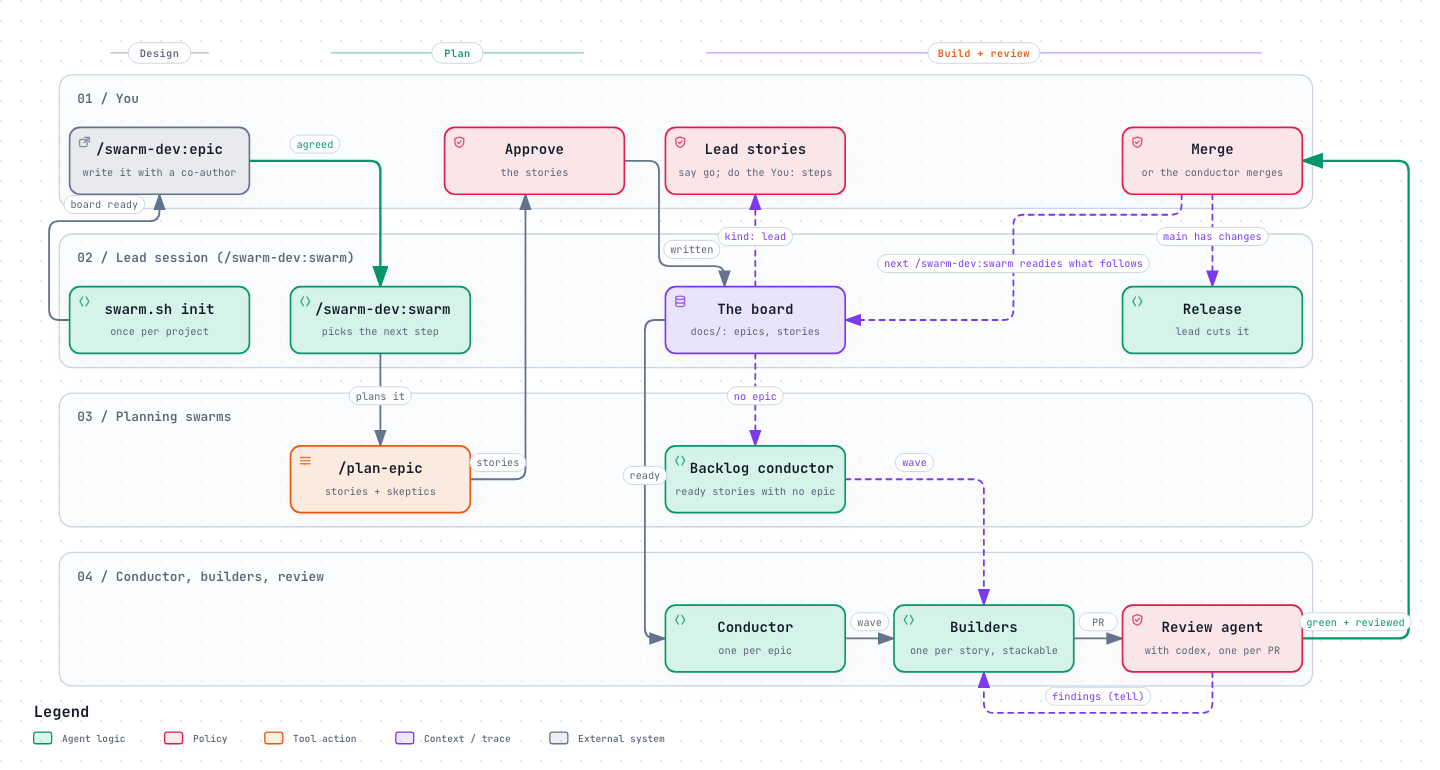
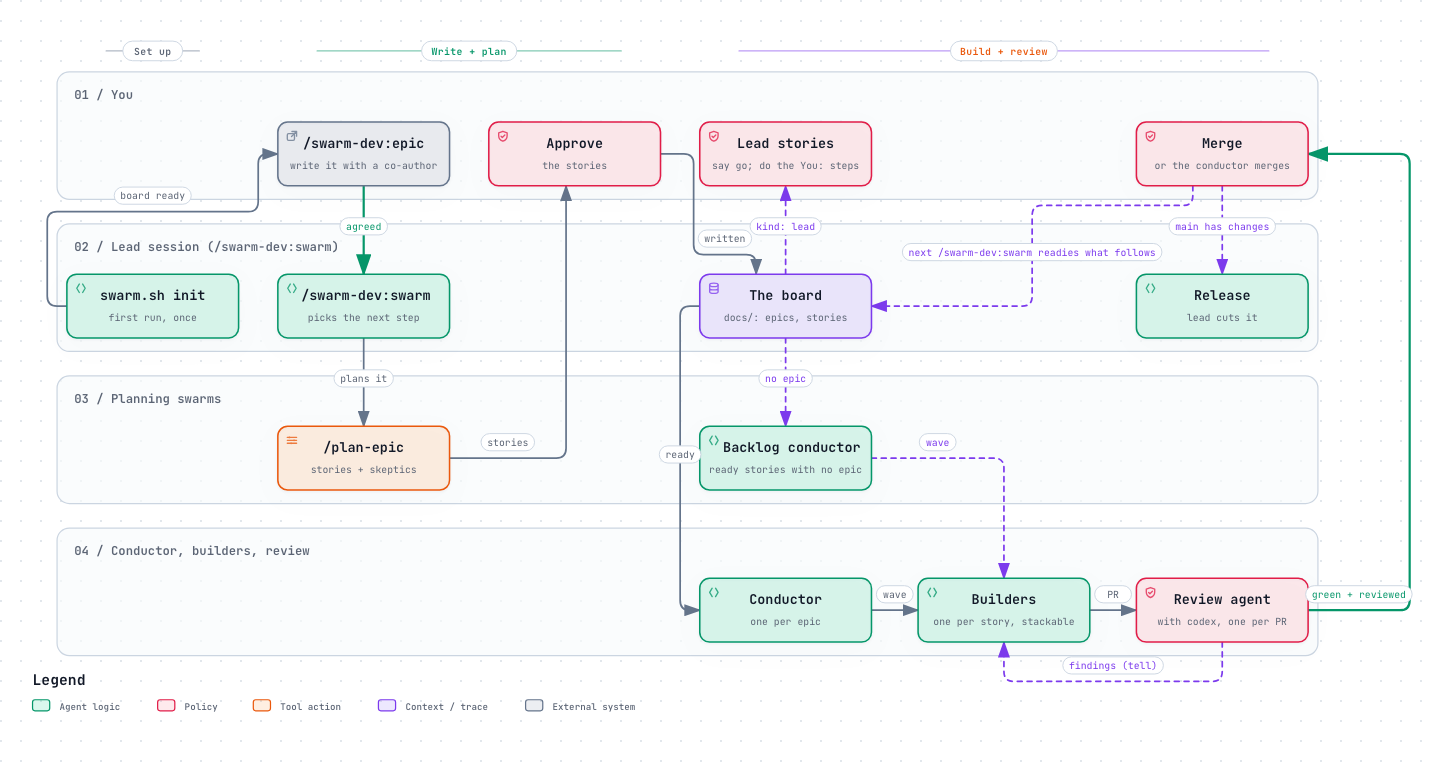
README: Requirements as a table, Obsidian optional, swarm.sh init first in the diagram (#352)
Claude-Session: https://claude.ai/code/session_01DPGGTEfx4m7EudRUvhD1P5

diff --git a/README.md b/README.md
@@ -18,7 +18,7 @@ claude plugin marketplace add redscaresu/swarm-dev && claude plugin install swar
 
 Then, in your project inside [herdr](https://herdr.dev), start `claude` and run:
 
-1. `/swarm-dev:swarm` sets up the board the first time (`swarm.sh init`).
+1. `/swarm-dev:swarm` runs `swarm.sh init` the first time, which sets up the board.
 2. `/swarm-dev:epic Add rate limiting to the API` writes the first piece of work with you.
 3. `/swarm-dev:swarm` again plans it, builds it, and stops each time it needs you.
 
@@ -28,7 +28,7 @@ Then, in your project inside [herdr](https://herdr.dev), start `claude` and run:
 
 <picture>
   <source media="(prefers-color-scheme: dark)" srcset="docs/assets/swarm-flow-dark.png">
-  <img alt="How the swarm builds an epic: /swarm-dev:epic, /swarm-dev:swarm, /plan-epic, your approval, the board, conductor, builders, review agent, merge" src="docs/assets/swarm-flow-light.png">
+  <img alt="How the swarm builds an epic: swarm.sh init, /swarm-dev:epic, /swarm-dev:swarm, /plan-epic, your approval, the board, conductor, builders, review agent, merge" src="docs/assets/swarm-flow-light.png">
 </picture>
 
 1. **Write the work.** `/swarm-dev:epic <title>` opens a co-author agent in its own pane. Together
@@ -55,11 +55,15 @@ marked **You:**. The board is plain Markdown in your repo, so a run can stop any
 
 ## Requirements
 
-- [Claude Code](https://claude.com/claude-code) 2.1.145 or later
-- [herdr](https://herdr.dev) 0.9.2 or later, the terminal multiplexer every agent runs in
-- the [GitHub CLI](https://cli.github.com) and the [codex CLI](https://github.com/openai/codex), both logged in
-- `git`, `python3` and `bash`
-- a GitHub repo, with a `make check` target that runs your tests
+| Needs | Version | What for |
+|---|---|---|
+| [Claude Code](https://claude.com/claude-code) | 2.1.145+ | runs every agent |
+| [herdr](https://herdr.dev) | 0.9.2+ | the terminal multiplexer: one pane per agent |
+| [GitHub CLI](https://cli.github.com) | logged in | PRs, CI checks, merges |
+| [codex CLI](https://github.com/openai/codex) | logged in | the second reviewer, a different model family |
+| `git`, `python3`, `bash` | any recent | the `swarm.sh` scripts |
+| a GitHub repo | with `make check` | CI and the pre-commit hook run it |
+| [Obsidian](https://obsidian.md) | optional | browse the board: open the board folder as a vault, and `Board.base` shows stories by status and epic |
 
 ## Getting started
 
